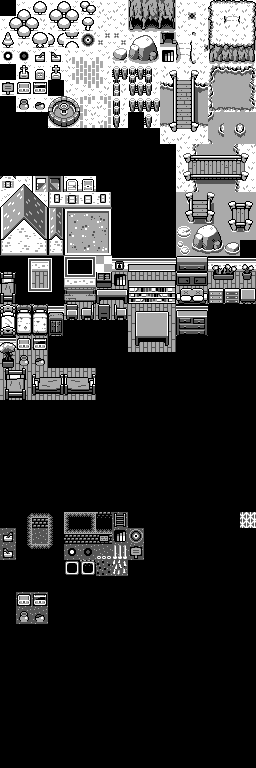
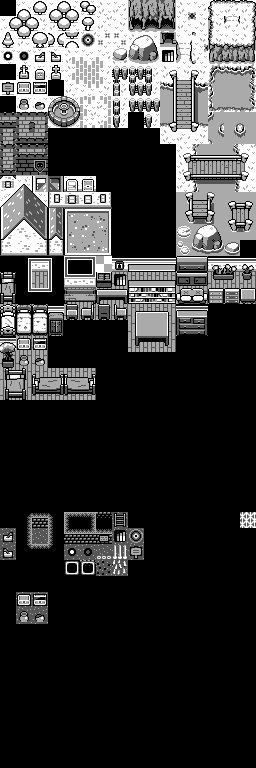
add castle tiles

Changed region(s): [[0.0, 0.125, 0.1875, 0.25]]

diff --git a/assets/tileset.tsx b/assets/tileset.tsx
@@ -10,6 +10,7 @@
    <wangcolor name="Water" color="#0055ff" tile="-1" probability="1"/>
    <wangcolor name="Elevated" color="#ff00d8" tile="-1" probability="1"/>
    <wangcolor name="Fence" color="#550000" tile="-1" probability="1"/>
+   <wangcolor name="Castle" color="#ffff00" tile="-1" probability="1"/>
    <wangtile tileid="0" wangid="5,5,5,5,5,5,5,5"/>
    <wangtile tileid="1" wangid="0,0,0,0,2,0,0,0"/>
    <wangtile tileid="3" wangid="0,0,2,0,2,0,0,0"/>
@@ -65,15 +66,25 @@
    <wangtile tileid="109" wangid="4,4,4,0,0,0,0,0"/>
    <wangtile tileid="110" wangid="4,4,4,0,0,0,4,4"/>
    <wangtile tileid="111" wangid="4,0,0,0,0,0,4,4"/>
+   <wangtile tileid="112" wangid="0,0,7,0,0,0,7,0"/>
+   <wangtile tileid="113" wangid="0,0,7,0,7,0,0,0"/>
+   <wangtile tileid="114" wangid="0,0,0,0,7,0,7,0"/>
    <wangtile tileid="117" wangid="1,0,1,1,1,1,1,1"/>
    <wangtile tileid="118" wangid="1,1,1,1,1,1,1,0"/>
    <wangtile tileid="119" wangid="6,0,0,0,0,0,0,0"/>
    <wangtile tileid="125" wangid="4,4,4,0,4,4,4,0"/>
    <wangtile tileid="126" wangid="4,4,4,0,4,4,4,4"/>
    <wangtile tileid="127" wangid="4,4,4,4,4,0,4,4"/>
+   <wangtile tileid="128" wangid="7,0,0,0,7,0,0,0"/>
+   <wangtile tileid="129" wangid="7,0,7,0,0,0,0,0"/>
+   <wangtile tileid="130" wangid="7,0,0,0,0,0,7,0"/>
    <wangtile tileid="141" wangid="4,0,4,4,4,0,4,4"/>
    <wangtile tileid="142" wangid="4,0,4,4,4,4,4,4"/>
    <wangtile tileid="143" wangid="4,4,4,4,4,4,4,0"/>
+   <wangtile tileid="144" wangid="0,0,0,0,7,0,0,0"/>
+   <wangtile tileid="145" wangid="0,0,7,0,0,0,0,0"/>
+   <wangtile tileid="146" wangid="0,0,0,0,0,0,7,0"/>
+   <wangtile tileid="160" wangid="7,0,0,0,0,0,0,0"/>
    <wangtile tileid="212" wangid="0,0,3,3,3,0,0,0"/>
    <wangtile tileid="213" wangid="0,0,3,3,3,3,3,0"/>
    <wangtile tileid="214" wangid="0,0,0,0,3,3,3,0"/>
